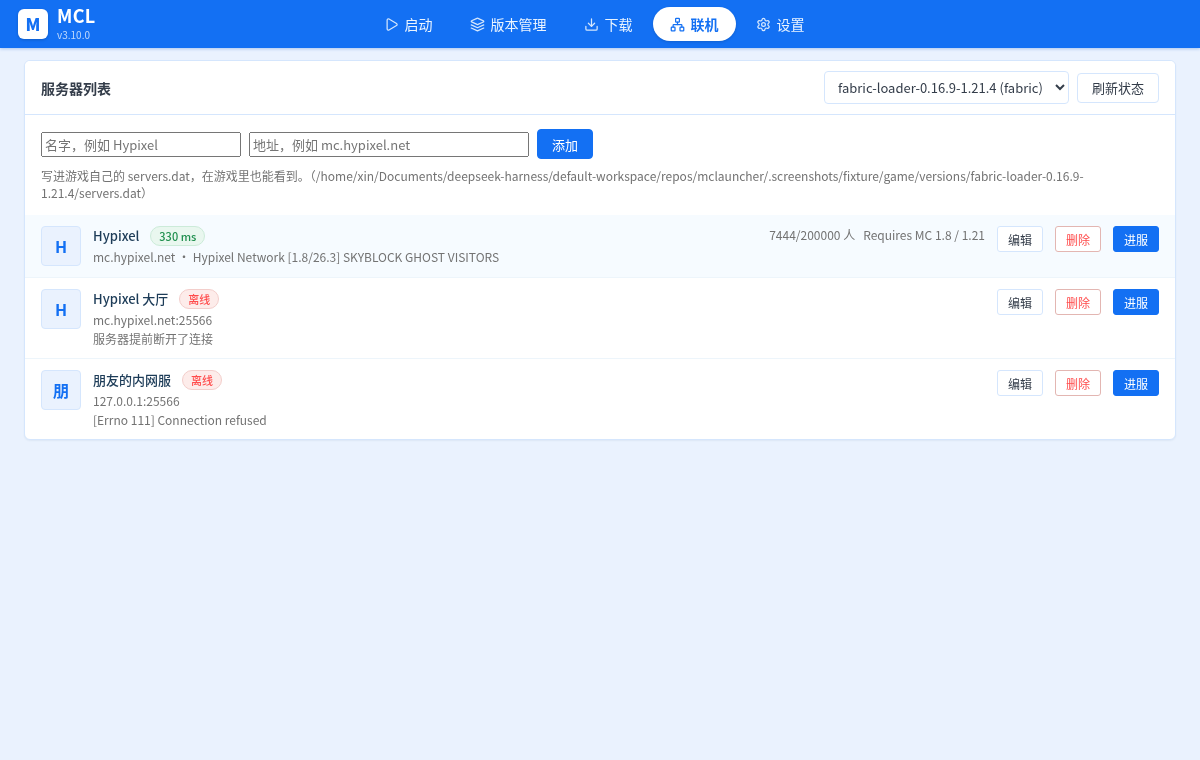
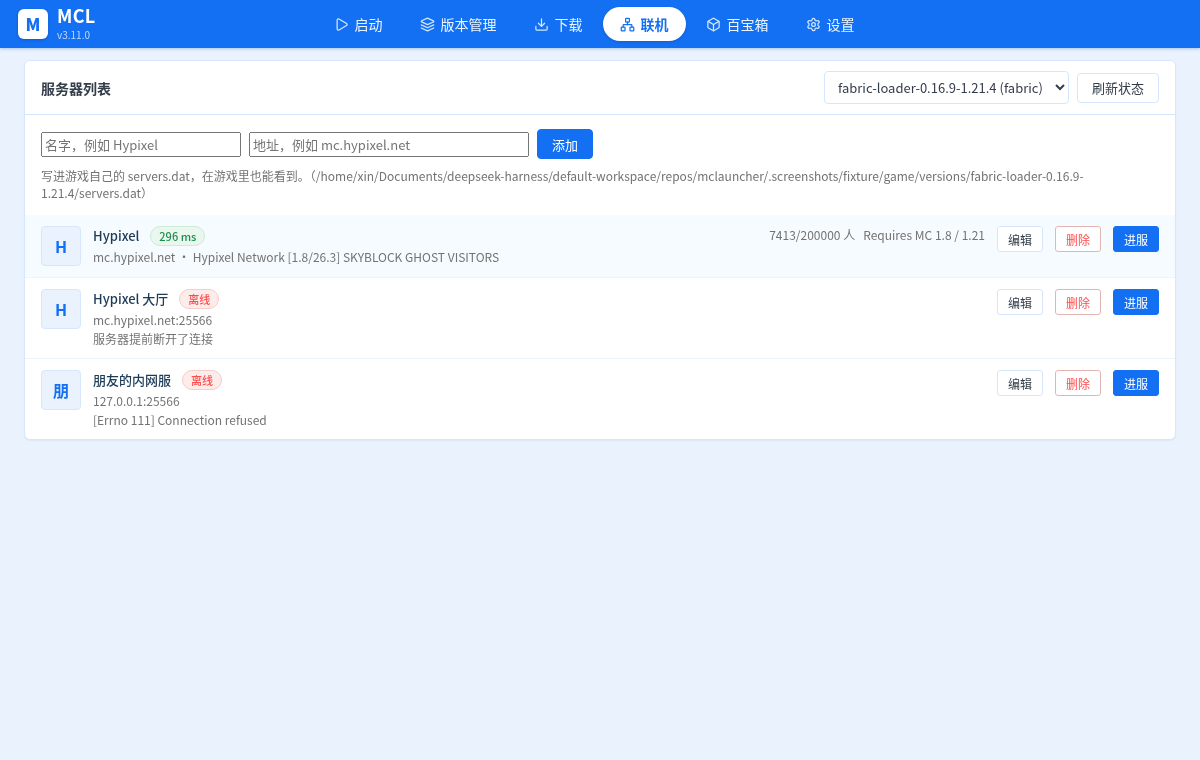
feat: 同步 mclauncher v3.12.0 截图，新增「百宝箱」标签 (#2)
- 9 张图全部换成 v3.12.0 重新生成的（导航现在是 6 项，多了百宝箱）
- 新增 toolbox.png + 中英文案

Changed region(s): [[0.2775, 0.0, 0.7092, 0.0605]]

diff --git a/public/app.js b/public/app.js
@@ -51,6 +51,7 @@ const I18N = {
     "screens.mods": "下载 · 模组",
     "screens.resources": "下载 · 光影",
     "screens.link": "联机",
+    "screens.toolbox": "百宝箱",
     "screens.settings": "设置",
     "screens.dark": "深色",
     "screens.caption.versions": "启动：账号、版本选择、一键启动",
@@ -59,6 +60,7 @@ const I18N = {
     "screens.caption.mods": "下载 · 模组：Modrinth 搜索安装，自动补前置",
     "screens.caption.resources": "下载 · 光影与材质包：搜索安装到实例目录",
     "screens.caption.link": "联机：服务器列表、延迟与在线人数、一键进服",
+    "screens.caption.toolbox": "百宝箱：关于、环境诊断、快捷目录",
     "screens.caption.settings": "设置：目录、Java、主题、下载源、微软账号",
     "screens.caption.dark": "深色主题：可手动切换或跟随系统",
     "download.eyebrow": "下载",
@@ -147,6 +149,7 @@ const I18N = {
     "screens.mods": "Download · mods",
     "screens.resources": "Download · shaders",
     "screens.link": "Multiplayer",
+    "screens.toolbox": "Toolbox",
     "screens.settings": "Settings",
     "screens.dark": "Dark",
     "screens.caption.versions": "Launch: account, version picker, one-click start",
@@ -155,6 +158,7 @@ const I18N = {
     "screens.caption.mods": "Download · mods: search and install from Modrinth with dependencies",
     "screens.caption.resources": "Download · shaders and resource packs: search and install into the instance",
     "screens.caption.link": "Multiplayer: server list with latency and player counts, one-click join",
+    "screens.caption.toolbox": "Toolbox: about, environment check, shortcut folders",
     "screens.caption.settings": "Settings: directories, Java, theme, download source, Microsoft account",
     "screens.caption.dark": "Dark theme: manual or follow the system",
     "download.eyebrow": "Download",
@@ -205,6 +209,7 @@ const SHOTS = {
   mods: { file: "mods.png", caption: "screens.caption.mods" },
   resources: { file: "resources.png", caption: "screens.caption.resources" },
   link: { file: "link.png", caption: "screens.caption.link" },
+  toolbox: { file: "toolbox.png", caption: "screens.caption.toolbox" },
   settings: { file: "settings.png", caption: "screens.caption.settings" },
   dark: { file: "dark.png", caption: "screens.caption.dark" },
 };

diff --git a/public/index.html b/public/index.html
@@ -149,6 +149,7 @@
           <button class="shot-tab" data-shot="mods" role="tab" aria-selected="false" data-i18n="screens.mods">下载 · 模组</button>
           <button class="shot-tab" data-shot="resources" role="tab" aria-selected="false" data-i18n="screens.resources">下载 · 光影</button>
           <button class="shot-tab" data-shot="link" role="tab" aria-selected="false" data-i18n="screens.link">联机</button>
+          <button class="shot-tab" data-shot="toolbox" role="tab" aria-selected="false" data-i18n="screens.toolbox">百宝箱</button>
           <button class="shot-tab" data-shot="settings" role="tab" aria-selected="false" data-i18n="screens.settings">设置</button>
           <button class="shot-tab" data-shot="dark" role="tab" aria-selected="false" data-i18n="screens.dark">深色</button>
         </div>
